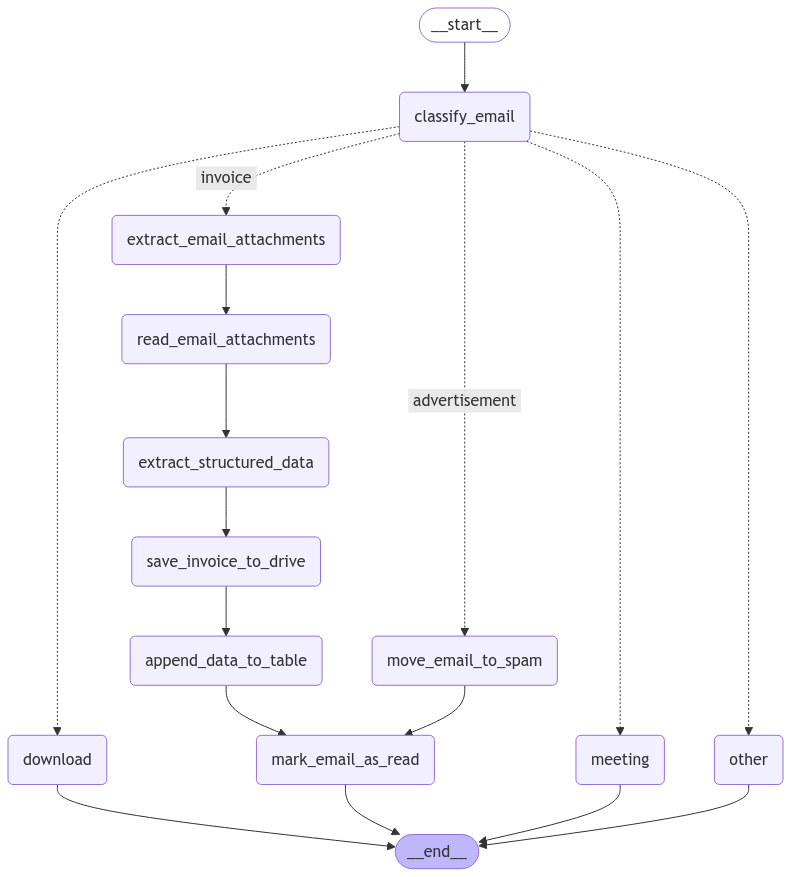
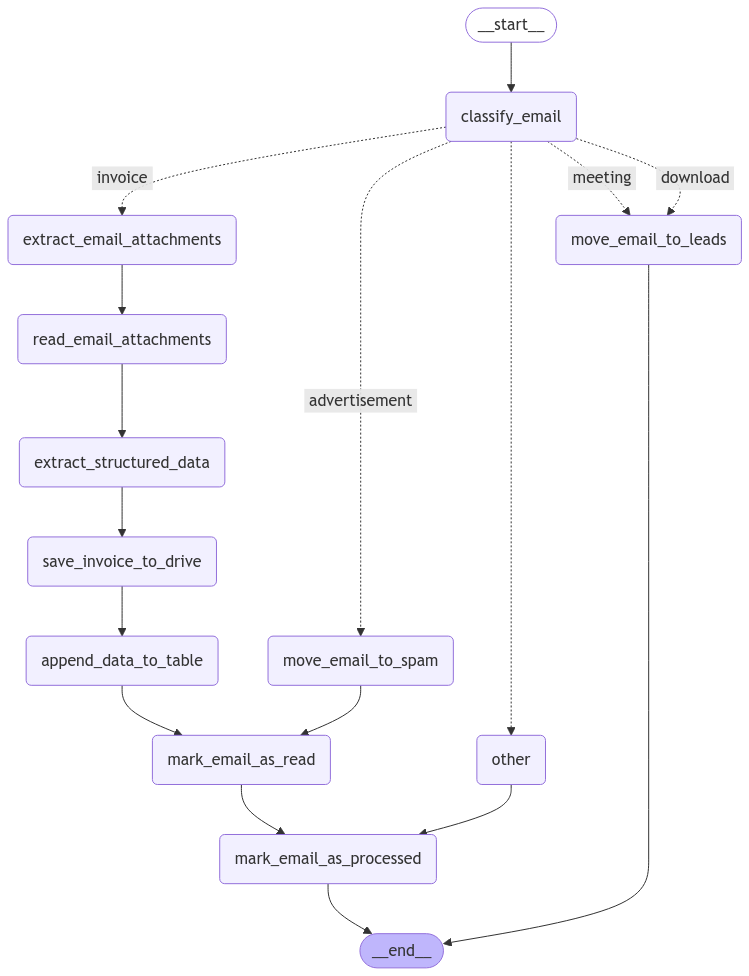
adjusted flow

diff --git a/langgraph_graph/setup_langgraph_graph.py b/langgraph_graph/setup_langgraph_graph.py
@@ -1,11 +1,11 @@
 from langgraph.graph import START, END, StateGraph
 from models.state import State
+from nodes.mark_email_as_processed import mark_email_as_processed
 from nodes.append_data_to_table import append_data_to_table
 from nodes.extract_structured_data import extract_structured_data
+from nodes.move_email_to_leads import move_email_to_leads
 from nodes.read_email_attachments import read_email_attachments
-from nodes.download import download
 from nodes.other import other
-from nodes.meeting import meeting
 from nodes.classify_email import classify_email
 from nodes.extract_email_attachments import extract_email_attachments
 from nodes.upload_file_to_drive import upload_file_to_drive
@@ -43,9 +43,9 @@ def build_graph() -> StateGraph:
     router_builder.add_node("save_invoice_to_drive", upload_file_to_drive)
     router_builder.add_node("mark_email_as_read", mark_email_as_read)
     router_builder.add_node("move_email_to_spam", move_email_to_spam)
-    router_builder.add_node("meeting", meeting)
-    router_builder.add_node("download", download)
+    router_builder.add_node("move_email_to_leads", move_email_to_leads)
     router_builder.add_node("other", other)
+    router_builder.add_node("mark_email_as_processed", mark_email_as_processed)
 
     # Add edges to connect nodes
     router_builder.add_edge(START, "classify_email")
@@ -55,8 +55,8 @@ def build_graph() -> StateGraph:
         {  # Name returned by route_decision : Name of next node to visit
             "invoice": "extract_email_attachments",
             "advertisement": "move_email_to_spam",
-            "meeting": "meeting",
-            "download": "download",
+            "meeting": "move_email_to_leads",
+            "download": "move_email_to_leads",
             "other": "other",
         },
     )
@@ -65,11 +65,13 @@ def build_graph() -> StateGraph:
     router_builder.add_edge("extract_structured_data", "save_invoice_to_drive")
     router_builder.add_edge("save_invoice_to_drive", "append_data_to_table")
     router_builder.add_edge("append_data_to_table", "mark_email_as_read")
+
     router_builder.add_edge("move_email_to_spam", "mark_email_as_read")
-    router_builder.add_edge("mark_email_as_read", END)
-    router_builder.add_edge("meeting", END)
-    router_builder.add_edge("download", END)
-    router_builder.add_edge("other", END)
+    router_builder.add_edge("mark_email_as_read", "mark_email_as_processed")
+
+    router_builder.add_edge("other", "mark_email_as_processed")
+    router_builder.add_edge("mark_email_as_processed", END)
+    router_builder.add_edge("move_email_to_leads", END)
 
     # Compile workflow
     graph = router_builder.compile()

diff --git a/api/azure_graph_api.py b/api/azure_graph_api.py
@@ -125,7 +125,7 @@ class AzureGraphApiClient:
             "Content-Type": "application/json",
         }
 
-        payload = {"isRead": "true"}
+        payload = {"isRead": True}
 
         try:
             response = requests.patch(
@@ -199,3 +199,35 @@ class AzureGraphApiClient:
             print("Error when accessing the Graph API:", response.text)
 
         return None
+
+    def mark_email_as_processed(self, email_id):
+        """
+        Marks an email as read for the specified email account and email ID.
+
+        Args:
+            email_account (str): The email account to mark the email as read.
+            email_id (str): The ID of the email to mark as read.
+
+        Returns:
+            bool: True if the email was marked as read successfully, False otherwise.
+        """
+        graphApiEndpoint = f"https://graph.microsoft.com/v1.0/users/{self.email_account}/messages/{email_id}"
+        headers = {
+            "Authorization": f"Bearer {self.access_token}",
+            "Content-Type": "application/json",
+        }
+
+        payload = {"categories": ["processed"]}
+
+        try:
+            response = requests.patch(
+                graphApiEndpoint, headers=headers, data=json.dumps(payload)
+            )
+
+            if 200 <= response.status_code < 300:
+                return response.json().get("id")
+
+        except Exception as e:
+            print("Exception occurred:", str(e))
+
+        return False

diff --git a/nodes/move_email_to_invoices.py b/nodes/move_email_to_invoices.py
@@ -1,0 +1,21 @@
+from models.state import State
+from api.azure_graph_api import AzureGraphApiClient
+import logging
+
+
+def move_email_to_invoices(state: State):
+    logging.info("Moving E-Mail to folder: werbung")
+
+    emailId = state["email"]["id"]
+
+    azureGraphClient: AzureGraphApiClient = state["azureGraphClient"]
+
+    new_emailId = azureGraphClient.move_email(
+        emailId,
+        "4. rechnungen",
+    )
+
+    if new_emailId:
+        state["email"]["id"] = new_emailId
+
+    return state

diff --git a/nodes/move_email_to_leads.py b/nodes/move_email_to_leads.py
@@ -1,0 +1,21 @@
+from models.state import State
+from api.azure_graph_api import AzureGraphApiClient
+import logging
+
+
+def move_email_to_leads(state: State):
+    logging.info("Moving E-Mail to folder: werbung")
+
+    emailId = state["email"]["id"]
+
+    azureGraphClient: AzureGraphApiClient = state["azureGraphClient"]
+
+    new_emailId = azureGraphClient.move_email(
+        emailId,
+        "6. leads",
+    )
+
+    if new_emailId:
+        state["email"]["id"] = new_emailId
+
+    return state

diff --git a/nodes/mark_email_as_processed.py b/nodes/mark_email_as_processed.py
@@ -1,0 +1,17 @@
+from models.state import State
+from api.azure_graph_api import AzureGraphApiClient
+import logging
+
+
+def mark_email_as_processed(state: State):
+    logging.info("Marking email as processed")
+
+    emailId = state["email"]["id"]
+
+    azureGraphClient: AzureGraphApiClient = state["azureGraphClient"]
+
+    result = azureGraphClient.mark_email_as_processed(emailId)
+
+    logging.info(result)
+
+    return
